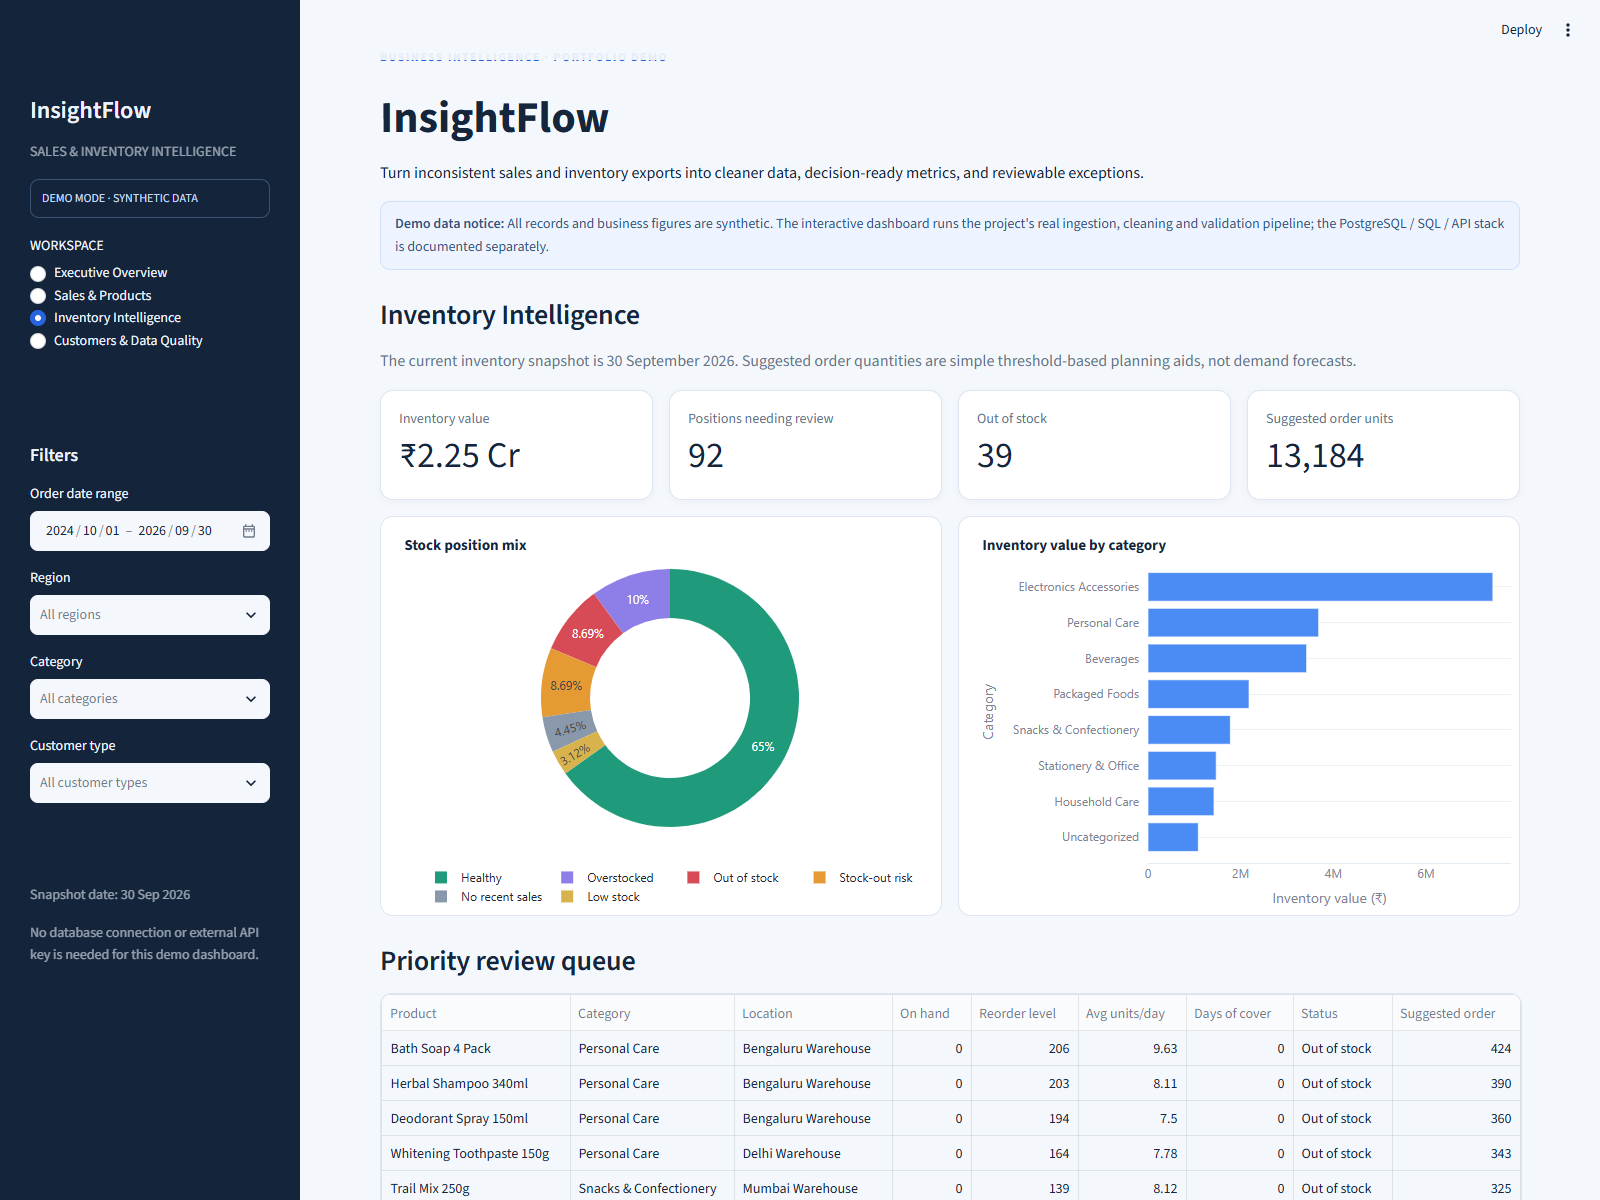
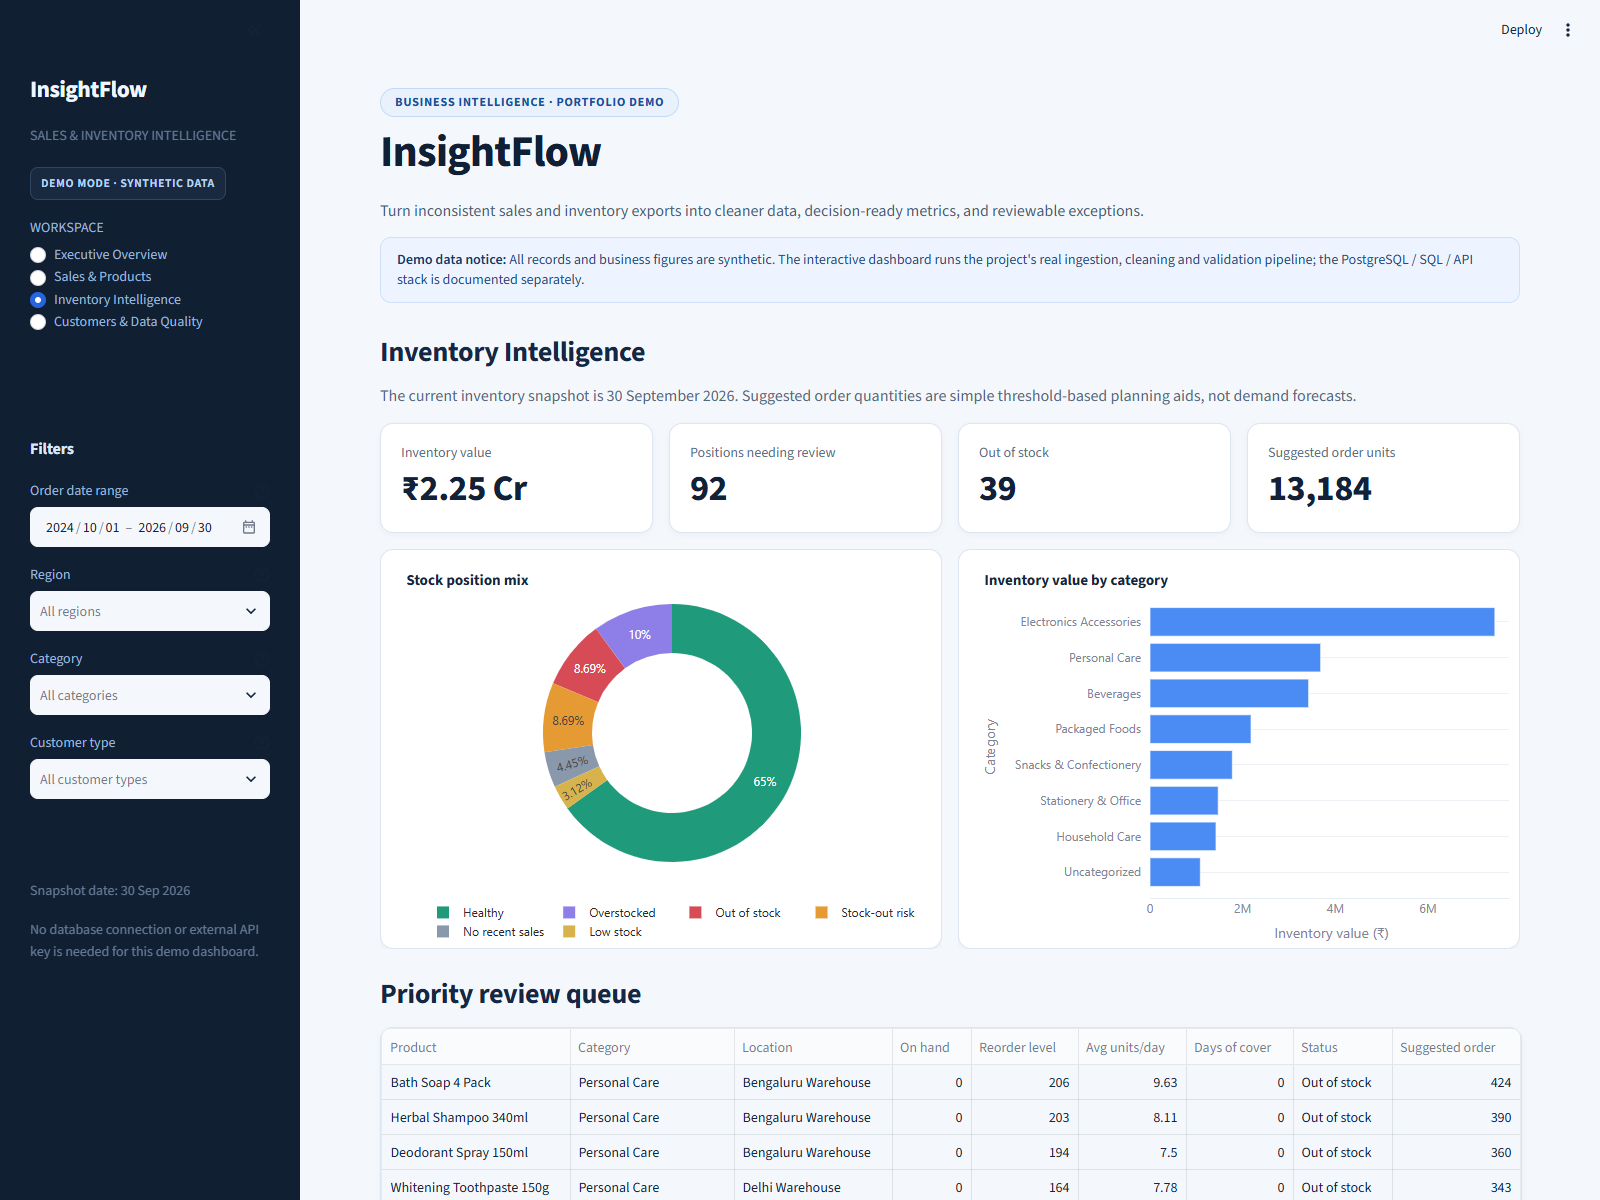
Polish eyebrow badge, header spacing, and UI hierarchy

diff --git a/streamlit_app.py b/streamlit_app.py
@@ -24,38 +24,85 @@ st.markdown(
     <style>
       .stApp { background: #f4f7fb; }
       [data-testid="stHeader"] { background: rgba(244,247,251,.92); }
-      [data-testid="stSidebar"] { background: #14243a; }
-      [data-testid="stSidebar"] [data-testid="stMarkdownContainer"],
-      [data-testid="stSidebar"] label,
-      [data-testid="stSidebar"] p,
-      [data-testid="stSidebar"] h1,
-      [data-testid="stSidebar"] h2,
-      [data-testid="stSidebar"] h3 { color: #edf4ff !important; }
+      [data-testid="stSidebar"] { background: #111f32; }
+      [data-testid="stSidebar"] [data-testid="stMarkdownContainer"] h1 {
+        color: #f1f6ff !important; font-size: 1.45rem; font-weight: 750;
+        letter-spacing: -0.01em; margin-bottom: 0.1rem;
+      }
+      [data-testid="stSidebar"] [data-testid="stMarkdownContainer"] h3 {
+        color: #dbe7f7 !important; font-size: 1rem; font-weight: 700;
+        margin-top: 0.75rem; margin-bottom: 0.35rem;
+      }
+      [data-testid="stSidebar"] .stCaption,
+      [data-testid="stSidebar"] p { color: #9ab4d6 !important; }
+      [data-testid="stSidebar"] label {
+        color: #dbe7f7 !important; font-weight: 600 !important; font-size: 0.86rem !important;
+      }
+      .if-sidebar-badge {
+        display: inline-block; border: 1px solid #2f4562; border-radius: 8px;
+        padding: 6px 10px; color: #b8d4f8; font-size: 0.74rem; font-weight: 650;
+        letter-spacing: 0.05em; background: rgba(41, 62, 90, 0.35); margin-top: 0.25rem;
+      }
+      h1 {
+        color: #111f35 !important; font-weight: 750 !important;
+        letter-spacing: -0.02em !important; margin-top: 0 !important;
+        padding-top: 0 !important; margin-bottom: 0.3rem !important;
+      }
+      h2, h3 {
+        color: #152744 !important; font-weight: 700 !important;
+        letter-spacing: -0.01em !important;
+      }
       [data-testid="stMetric"] {
         background: #ffffff; border: 1px solid #dce5f0; border-radius: 13px;
-        padding: 16px 18px; box-shadow: 0 2px 8px rgba(16,35,60,.035);
+        padding: 16px 20px; box-shadow: 0 2px 6px rgba(16,35,60,0.035);
       }
-      [data-testid="stMetricLabel"] { color: #62748b; }
-      [data-testid="stMetricValue"] { color: #15253b; }
+      [data-testid="stMetricLabel"] {
+        color: #5a6e85 !important; font-size: 0.84rem !important; font-weight: 600 !important;
+      }
+      [data-testid="stMetricValue"] {
+        color: #122137 !important; font-weight: 750 !important; letter-spacing: -0.015em !important;
+      }
       div[data-testid="stPlotlyChart"] {
         background: #ffffff; border: 1px solid #dce5f0; border-radius: 13px;
-        padding: 6px 8px; overflow: hidden;
+        padding: 8px 10px; box-shadow: 0 2px 6px rgba(16,35,60,0.035); overflow: hidden;
       }
       .if-eyebrow {
-        color: #2764df; font-size: .74rem; font-weight: 750;
-        letter-spacing: .12em; text-transform: uppercase; margin-bottom: .25rem;
+        display: inline-flex; align-items: center; background: #e8f1fc;
+        color: #1a4f9c; border: 1px solid #c2daf7; border-radius: 9999px;
+        padding: 5px 14px; font-size: 0.78rem; font-weight: 700;
+        letter-spacing: 0.05em; text-transform: uppercase; line-height: 1.4;
+        margin-bottom: 0.5rem;
+      }
+      .if-subtitle {
+        color: #4b5f76; font-size: 1.02rem; line-height: 1.45;
+        margin-top: -0.1rem; margin-bottom: 0.9rem;
       }
       .if-note {
-        border: 1px solid #cfe0fb; background: #edf4ff; color: #31547e;
-        border-radius: 10px; padding: 11px 14px; font-size: .88rem;
+        border: 1px solid #cfe0fb; background: #edf4ff; color: #244b7a;
+        border-radius: 11px; padding: 12px 16px; font-size: 0.88rem;
+        line-height: 1.45; margin-bottom: 1.25rem;
       }
-      .if-section-note { color: #65758b; font-size: .88rem; margin-top: -.35rem; }
+      .if-note strong { color: #133a68; }
+      .if-section-note {
+        color: #556982; font-size: 0.88rem; line-height: 1.4;
+        margin-top: -0.25rem; margin-bottom: 1rem;
+      }
       div[data-testid="stDataFrame"] {
-        border: 1px solid #dce5f0;
-        border-radius: 12px;
-        overflow: hidden;
+        background: #ffffff; border: 1px solid #dce5f0; border-radius: 13px;
+        box-shadow: 0 2px 6px rgba(16,35,60,0.035); overflow: hidden;
       }
-      .block-container { padding-top: 2rem; padding-bottom: 3rem; max-width: 1540px; }
+      .block-container {
+        padding-top: 4.5rem !important; padding-bottom: 3.5rem !important; max-width: 1540px;
+      }
+      @media (max-width: 768px) {
+        .block-container {
+          padding-top: 3.75rem !important; padding-bottom: 2rem !important;
+          padding-left: 1rem !important; padding-right: 1rem !important;
+        }
+        [data-testid="stMetric"] { padding: 12px 14px; }
+        .if-eyebrow { font-size: 0.72rem; padding: 4px 11px; }
+        .if-subtitle { font-size: 0.94rem; }
+      }
     </style>
     """,
     unsafe_allow_html=True,
@@ -85,9 +132,7 @@ raw_profile = data["raw_profile"]
 st.sidebar.markdown("# InsightFlow")
 st.sidebar.caption("SALES & INVENTORY INTELLIGENCE")
 st.sidebar.markdown(
-    "<div style='border:1px solid #3b5270;border-radius:9px;padding:9px 11px;"
-    "color:#c6dcfa;font-size:12px;'>"
-    "DEMO MODE · SYNTHETIC DATA</div>",
+    '<div class="if-sidebar-badge">DEMO MODE · SYNTHETIC DATA</div>',
     unsafe_allow_html=True,
 )
 st.sidebar.markdown(" ")
@@ -168,8 +213,9 @@ st.markdown(
 )
 st.title("InsightFlow")
 st.markdown(
-    "Turn inconsistent sales and inventory exports into cleaner data, decision-ready metrics, "
-    "and reviewable exceptions."
+    '<p class="if-subtitle">Turn inconsistent sales and inventory exports into cleaner data, '
+    "decision-ready metrics, and reviewable exceptions.</p>",
+    unsafe_allow_html=True,
 )
 st.markdown(
     '<div class="if-note"><strong>Demo data notice:</strong> All records and business figures '
@@ -177,7 +223,6 @@ st.markdown(
     "validation pipeline; the PostgreSQL / SQL / API stack is documented separately.</div>",
     unsafe_allow_html=True,
 )
-st.write("")
 
 
 def metric_row(frame: pd.DataFrame) -> None:
